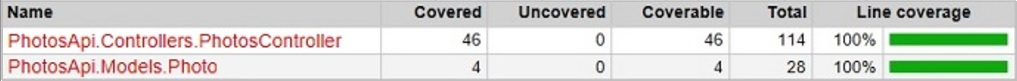
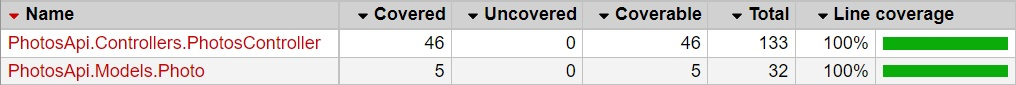
Concurrency added

diff --git a/PhotosApi/Controllers/PhotosController.cs b/PhotosApi/Controllers/PhotosController.cs
@@ -1,10 +1,13 @@
 using System;
 using System.Collections.Generic;
 using System.Linq;
+using System.Security.Cryptography;
+using System.Text;
 using System.Threading.Tasks;
 using Microsoft.AspNetCore.Http;
 using Microsoft.AspNetCore.Mvc;
 using Microsoft.EntityFrameworkCore;
+using Newtonsoft.Json;
 using PhotosApi.Data;
 using PhotosApi.Models;
 
@@ -25,7 +28,7 @@ namespace PhotosApi.Controllers
 
         public PhotosController(IPhotoDataAccess iPhoto)
         {
-            //Uses DI to inject the database context into the controller.
+            //Uses DI to inject the class that access the data source
             _iPhoto = iPhoto;
         }
 
@@ -49,11 +52,28 @@ namespace PhotosApi.Controllers
                 return NotFound();
             }
 
-            return photo;
+            /*This is the standard for implementing optimistic locking
+              in a RESTful API: To use the Etags and If-Match headers.
+              PS: I'm using the optimistic concurrency from EF instead*/
+            #region Etags & If-Match
+            /*These "const" are placed outside this method*/
+            //private const string _etagHeader = "ETag";
+            //private const string _IfMatchHeader = "If-Match";
+            
+            //var eTag = photo.RowVersion.ToString();
+            //HttpContext.Response.Headers.Add(_etagHeader, eTag);
+
+            //if (HttpContext.Request.Headers.ContainsKey(_IfMatchHeader) &&
+            //    HttpContext.Request.Headers[_IfMatchHeader] == eTag)
+            //{
+            //    return new StatusCodeResult(StatusCodes.Status304NotModified);
+            //}
+            #endregion
+
+            return Ok(photo);
         }
 
         // PUT: api/Photos/5
-        // To protect from overposting attacks, see https://go.microsoft.com/fwlink/?linkid=2123754
         [HttpPut("{id}")]
         public async Task<IActionResult> PutPhoto(int id, Photo photo)
         {
@@ -82,7 +102,6 @@ namespace PhotosApi.Controllers
         }
 
         // POST: api/Photos
-        // To protect from overposting attacks, see https://go.microsoft.com/fwlink/?linkid=2123754
         [HttpPost]
         public async Task<ActionResult<Photo>> PostPhoto(Photo photo)
         {

diff --git a/PhotosApiTests/Controllers/PhotosControllerTests.cs b/PhotosApiTests/Controllers/PhotosControllerTests.cs
@@ -34,6 +34,8 @@ namespace PhotosApiTests.Controllers
         {
             // Arrange
             Photo fakePhoto = A.Fake<Photo>();
+            fakePhoto.LastModified = System.DateTime.Now;
+            fakePhoto.RowVersion = new byte[1];
 
             // Act
             PhotosController photosController = this.CreatePhotosController();
@@ -49,12 +51,10 @@ namespace PhotosApiTests.Controllers
             #region Arrange
             string imageLink = "image.jpg",
                    description = "test";
-            DateTime timestamp = DateTime.Now;
 
             Photo fakePhoto = A.Fake<Photo>();
             fakePhoto.ImageLink = imageLink;
             fakePhoto.Description = description;
-            fakePhoto.Timestamp = timestamp;
             #endregion
 
             // Act
@@ -66,7 +66,6 @@ namespace PhotosApiTests.Controllers
             //Since there are multiple asserts, there is a separated message for each one
             Assert.AreEqual(imageLink, photoResult.ImageLink, "ImageLink not equal");
             Assert.AreEqual(description, photoResult.Description, "Description not equal");
-            Assert.AreEqual(timestamp, photoResult.Timestamp, "Timestamp not equal");
         }
 
         [Test]
@@ -96,10 +95,11 @@ namespace PhotosApiTests.Controllers
 
             // Act
             PhotosController photosController = this.CreatePhotosController();
-            var result = await photosController.GetPhoto(_auxId);
+            var actionResult = await photosController.GetPhoto(_auxId);
 
             // Assert
-            Assert.AreEqual(fakePhoto.PhotoId, result.Value.PhotoId);
+            var result = ((OkObjectResult)actionResult.Result).Value as Photo;
+            Assert.AreEqual(fakePhoto.PhotoId, result.PhotoId);
         }
 
         [Test]

diff --git a/PhotosApi/Data/PhotoDataAccess.cs b/PhotosApi/Data/PhotoDataAccess.cs
@@ -26,7 +26,7 @@ namespace PhotosApi.Data
             {
                 var photoQuery = _context.Photos.AsQueryable();
                 //"OrderBy" separated so photoQuery can remain IQueryable, avoiding more casts
-                photoQuery = photoQuery.OrderByDescending(pho => pho.Timestamp);
+                photoQuery = photoQuery.OrderByDescending(pho => pho.LastModified);
 
                 if (skip != null)
                     photoQuery = photoQuery.Skip((int)skip);
@@ -60,6 +60,8 @@ namespace PhotosApi.Data
         {
             try
             {
+                /*The LastModified column is changed by
+                  the Database whenever there is an Add.*/
                 _context.Photos.Add(photo);
                 return await _context.SaveChangesAsync();
             }
@@ -74,6 +76,10 @@ namespace PhotosApi.Data
         {
             try
             {
+                /*Another possibility is to create a Trigger to
+                  change the last modified time automatically*/
+                photo.LastModified = DateTime.Now;
+
                 _context.Entry(photo).State = EntityState.Modified;
                 return await _context.SaveChangesAsync();
             }

diff --git a/PhotosApi/Models/MyDatabaseContext.cs b/PhotosApi/Models/MyDatabaseContext.cs
@@ -19,6 +19,15 @@ namespace PhotosApi.Models
         {
             modelBuilder.HasAnnotation("Relational:Collation", "SQL_Latin1_General_CP1_CI_AS");
 
+            modelBuilder.Entity<Photo>(entity =>
+            {
+                entity.Property(e => e.LastModified).HasDefaultValueSql("(getdate())");
+
+                entity.Property(e => e.RowVersion)
+                    .IsRowVersion()
+                    .IsConcurrencyToken();
+            });
+
             OnModelCreatingPartial(modelBuilder);
         }
 

diff --git a/PhotosApi/Models/Photo.cs b/PhotosApi/Models/Photo.cs
@@ -22,7 +22,11 @@ namespace PhotosApi.Models
         public string Description { get; set; }
 
         [Required]
-        [Column(TypeName = "datetime")]
-        public DateTime Timestamp { get; set; }
+        public DateTime LastModified { get; set; }
+
+        /*The attribute is called Timestamp because previous versions of SQL Server 
+          used a SQL timestamp data type before the SQL rowversion replaced it */
+        [Timestamp]
+        public byte[] RowVersion { get; set; }
     }
 }

diff --git a/PhotosApi/Models/PhotoSuper.cs b/PhotosApi/Models/PhotoSuper.cs
@@ -1,0 +1,12 @@
+using System.ComponentModel.DataAnnotations.Schema;
+
+namespace PhotosApi.Models
+{
+    /*This ia an sample to prevent over-posting attacks,
+     which is when a property you don’t want to be changed is set*/
+    [Table("Photo", Schema = "PhotoGallery")]
+    public class PhotoSuper : Photo
+    {
+        public bool IsAdmin { get; set; }
+    }
+}
